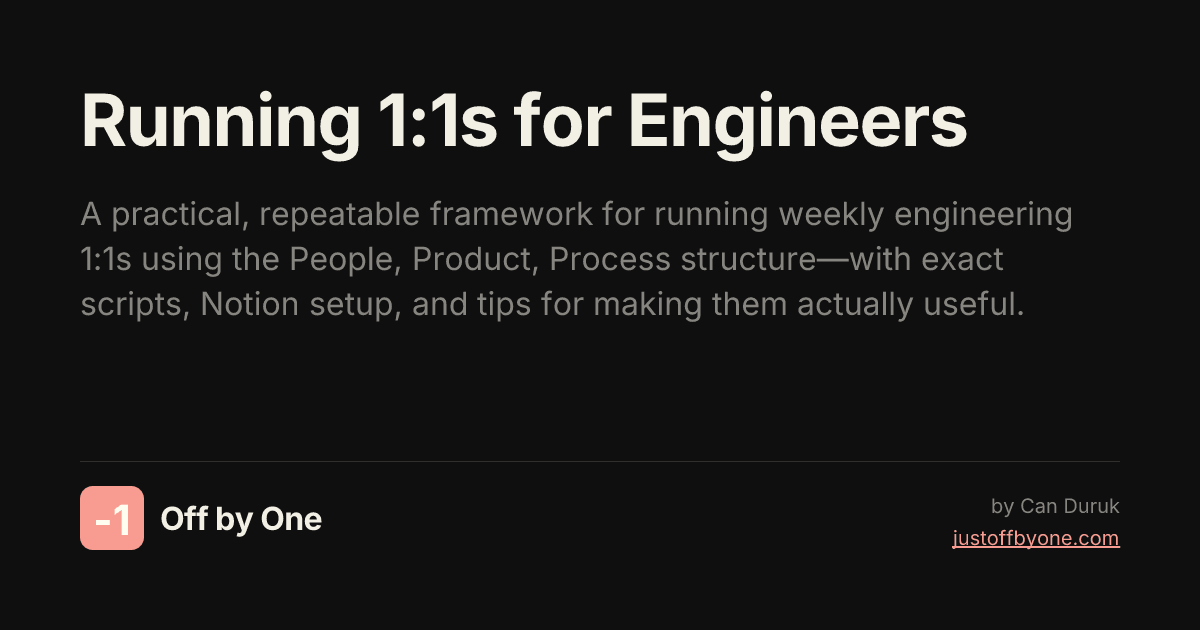
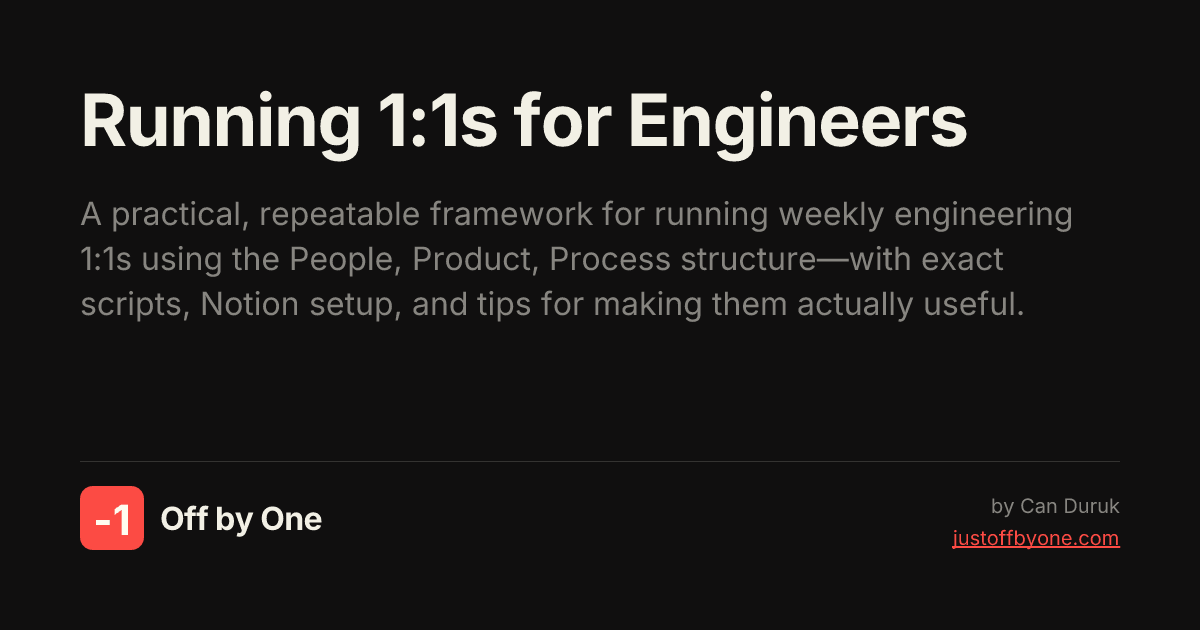
Switch brand accent to oklch 0.665/0.215/27

Changed region(s): [[0.0617, 0.754, 0.1233, 0.8746], [0.7708, 0.8444, 0.9558, 0.8746]]

diff --git a/src/styles/global.css b/src/styles/global.css
@@ -55,13 +55,13 @@
   /* Flexoki Light Theme */
   --background: oklch(0.984 0.007 88); /* paper #FFFCF0 */
   --foreground: oklch(0.145 0.004 60); /* black #100F0F */
-  --primary: oklch(0.665 0.215 27); /* brightest red #F26257 */
+  --primary: oklch(0.665 0.215 27); /* brightest red #FC4B44 */
   --primary-foreground: oklch(0.984 0.007 88); /* paper */
   --muted: oklch(0.933 0.009 88); /* base-50 #F2F0E5 */
   --muted-foreground: oklch(0.556 0.006 70); /* base-600 #6F6E69 */
-  --destructive: oklch(0.665 0.215 27); /* brightest red */
+  --destructive: oklch(0.665 0.215 27); /* brightest red #FC4B44 */
   --border: oklch(0.851 0.01 88); /* base-200 #CECDC3 */
-  --ring: oklch(0.665 0.215 27); /* brightest red accent */
+  --ring: oklch(0.665 0.215 27); /* brightest red accent #FC4B44 */
   --accent-cyan: oklch(0.58 0.08 195); /* cyan-400 #3AA99F */
   --accent-blue: oklch(0.57 0.1 245); /* blue-400 #4385BE */
 }
@@ -70,13 +70,13 @@
   /* Flexoki Dark Theme */
   --background: oklch(0.145 0.004 60); /* black #100F0F */
   --foreground: oklch(0.933 0.009 88); /* base-50 #F2F0E5 */
-  --primary: oklch(0.78 0.19 27); /* brightest red lighter #F89C91 */
+  --primary: oklch(0.665 0.215 27); /* brightest red #FC4B44 */
   --primary-foreground: oklch(0.145 0.004 60); /* black */
   --muted: oklch(0.205 0.006 60); /* base-900 #282726 */
   --muted-foreground: oklch(0.708 0.008 75); /* base-500 #878580 */
-  --destructive: oklch(0.78 0.19 27); /* brightest red */
+  --destructive: oklch(0.665 0.215 27); /* brightest red #FC4B44 */
   --border: oklch(0.269 0.006 60); /* base-850 #343331 */
-  --ring: oklch(0.78 0.19 27); /* brightest red accent */
+  --ring: oklch(0.665 0.215 27); /* brightest red accent #FC4B44 */
   --accent-cyan: oklch(0.75 0.06 195); /* cyan-600 #8EDAD8 */
   --accent-blue: oklch(0.74 0.08 245); /* blue-600 #8DB7E5 */
 }

diff --git a/src/components/ui/hero-template.tsx b/src/components/ui/hero-template.tsx
@@ -22,7 +22,7 @@ export function HeroTemplate({ title, description }: HeroTemplateProps) {
   const colors = {
     background: '#100F0F', // black
     foreground: '#F2F0E5', // base-50
-    primary: '#F89C91', // brightest red lighter
+    primary: '#FC4B44', // brightest red accent
     mutedForeground: '#878580', // base-500
     border: '#343331', // base-850
   }

diff --git a/src/components/ui/favicon-template.tsx b/src/components/ui/favicon-template.tsx
@@ -18,7 +18,7 @@ export interface FaviconTemplateProps {
 export function FaviconTemplate({ size = 100 }: FaviconTemplateProps) {
   // Flexoki brand colors (from global.css - dark theme)
   const colors = {
-    red: '#F89C91', // red accent
+    red: '#FC4B44', // red accent
     text: '#FFFCF0', // base
   }
 

diff --git a/src/components/ui/default-og-template.tsx b/src/components/ui/default-og-template.tsx
@@ -25,7 +25,7 @@ export function DefaultOGTemplate({
   const colors = {
     background: '#100F0F', // black
     foreground: '#F2F0E5', // base-50
-    primary: '#F89C91', // red accent
+    primary: '#FC4B44', // red accent
     mutedForeground: '#878580', // base-500
   }
 

diff --git a/scripts/README.md b/scripts/README.md
@@ -45,7 +45,7 @@ The script creates all favicon files in the `public/` directory:
 
 ## Design
 
-All favicons feature the "-1" logo in white text on a red rounded box background (#F89C91). The design uses:
+All favicons feature the "-1" logo in white text on a red rounded box background (#FC4B44). The design uses:
 
 - **Responsive font sizing**: 65% of canvas size (e.g., 16px canvas = 10px font, 512px canvas = 333px font)
 - **Vertical centering**: 5% paddingTop to compensate for text baseline offset
